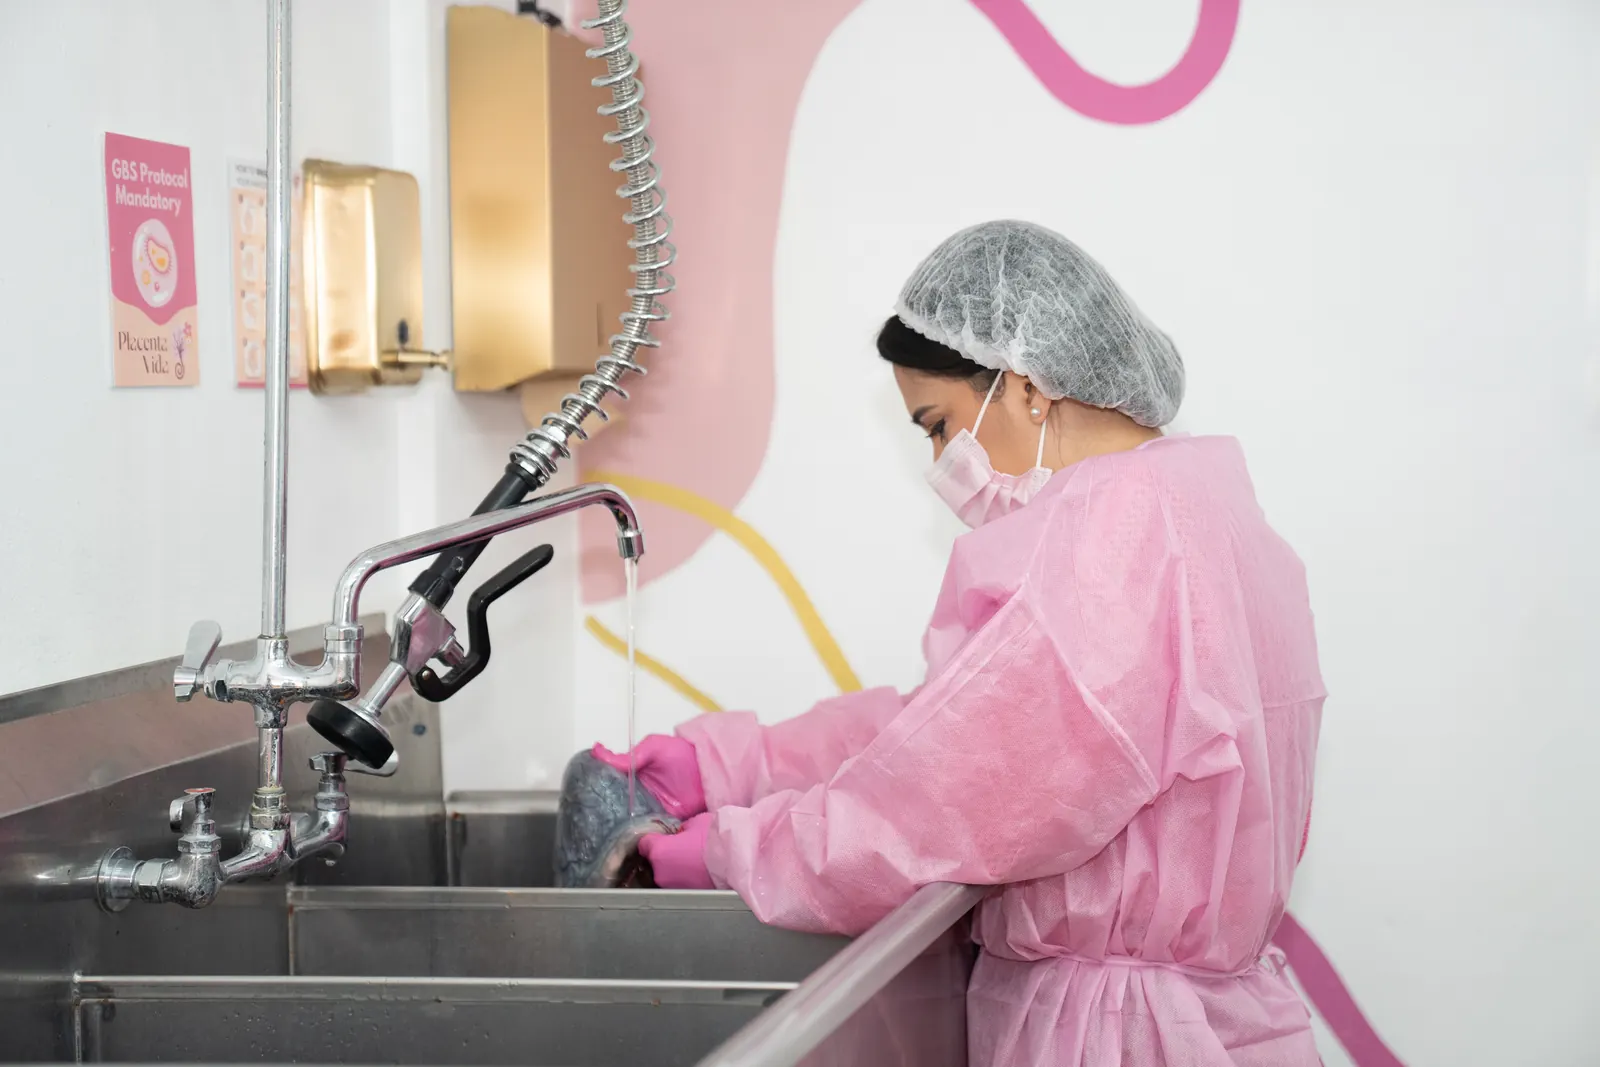
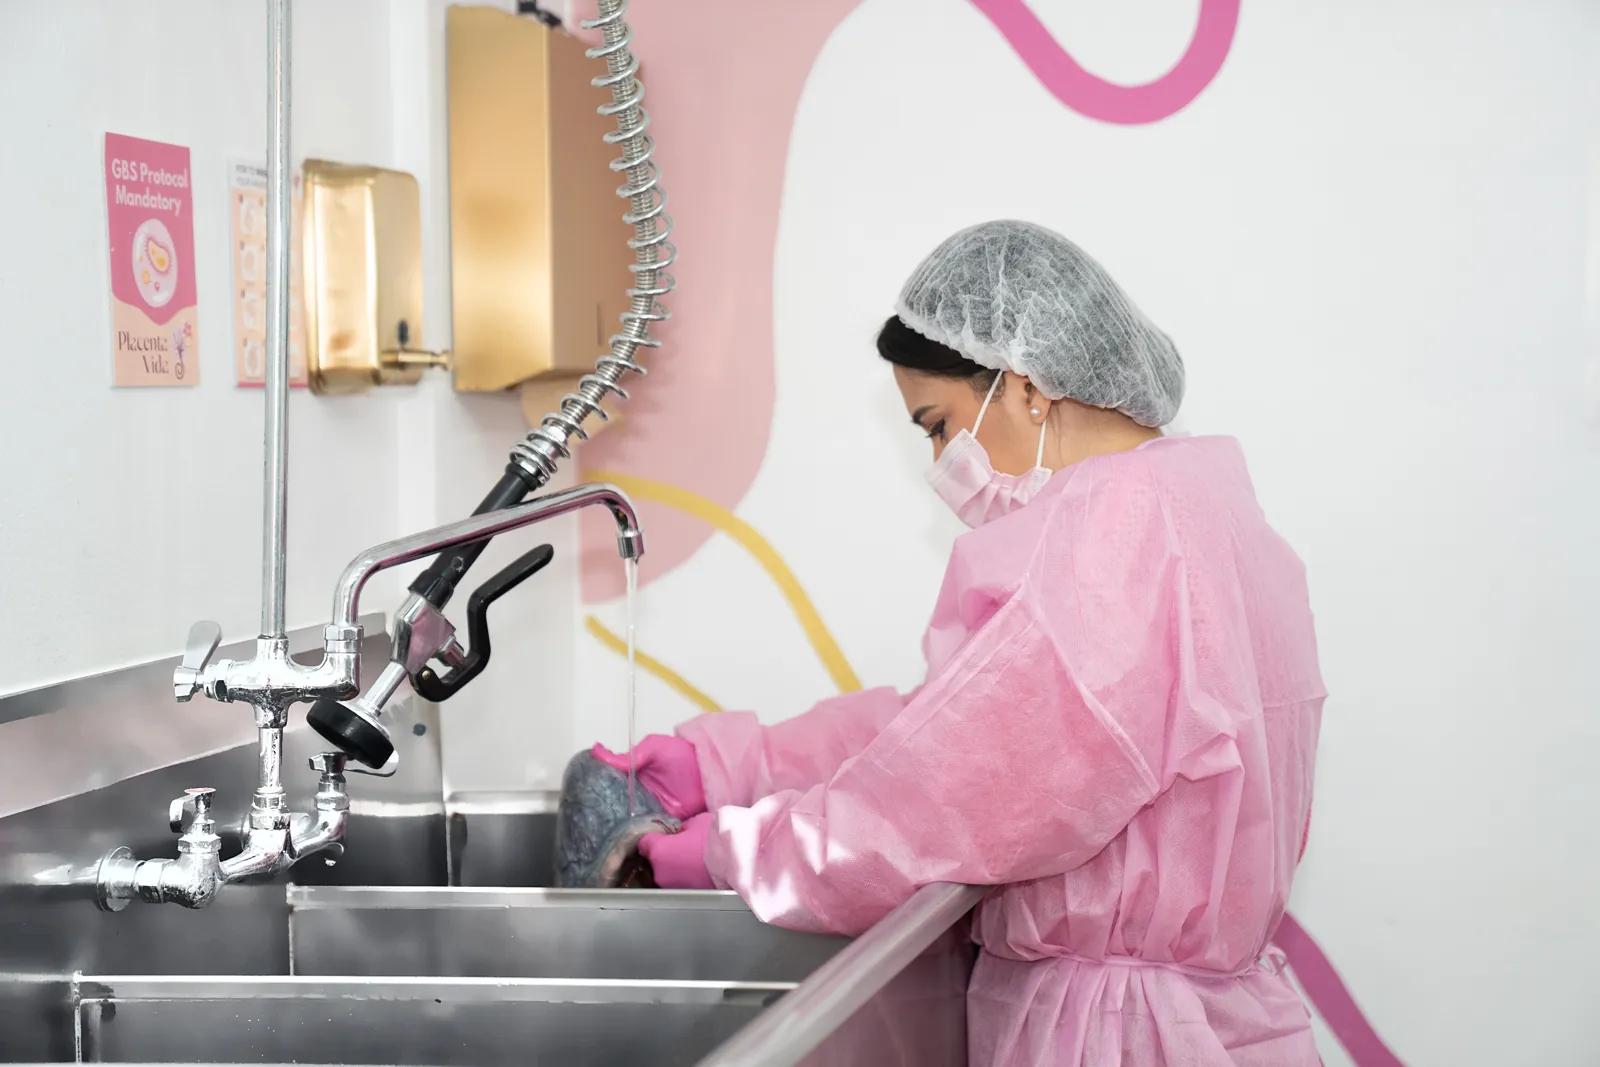
Cambiar foto del paso 3 y limpiar el fregadero en la foto de higiene
Claude-Session: https://claude.ai/code/session_011WUTE6QABAWncAaueNAr5V

Changed region(s): [[0.0, 0.5876, 0.5312, 1.0]]

diff --git a/pills/index.html b/pills/index.html
@@ -343,7 +343,7 @@ footer .legal{border-top:1px solid rgba(255,255,255,.12);margin-top:44px;padding
     <div class="pasos">
       <div class="paso rv"><div class="img"><img src="../img/liz-corazon.webp" alt="Liz haciendo un corazón con las manos"></div><div class="txt"><span class="num">01</span><h3>Separas tu espacio</h3><p>Envías tu depósito de $50 y te damos las instrucciones para tu hospital o parto en casa.</p></div></div>
       <div class="paso rv"><div class="img"><img src="../img/higiene.webp" alt="Higiene y bioseguridad" style="object-position:70% center"></div><div class="txt"><span class="num">02</span><h3>Recogemos tu placenta</h3><p>Servicio 24/7 en toda la isla, con transporte especializado y contenedor adecuado.</p></div></div>
-      <div class="paso rv"><div class="img"><img src="../img/proceso.webp" alt="Procesamiento de la placenta con equipo de protección"></div><div class="txt"><span class="num">03</span><h3>La preparamos</h3><p>Personal certificado en manejo, preparación y transporte de placenta, conforme a regulaciones de salud.</p></div></div>
+      <div class="paso rv"><div class="img"><img src="../img/cordon-arte.webp" alt="Preparación del arte del cordón con equipo de protección"></div><div class="txt"><span class="num">03</span><h3>La preparamos</h3><p>Personal certificado en manejo, preparación y transporte de placenta, conforme a regulaciones de salud.</p></div></div>
       <div class="paso rv"><div class="img"><img src="../img/bandeja-productos.webp" alt="Bandeja dorada con productos de placenta"></div><div class="txt"><span class="num">04</span><h3>Recibes tu orden</h3><p>Tus cápsulas y productos listos en 3 a 5 días. El balance se paga al confirmar tu orden.</p></div></div>
     </div>
   </div>
@@ -461,7 +461,7 @@ footer .legal{border-top:1px solid rgba(255,255,255,.12);margin-top:44px;padding
   <div class="wrap">
     <div class="fotos rv">
       <img class="a" src="../img/liz-logo.webp" alt="Lizbeth Palacios en las facilidades de Placenta Vida">
-      <img class="b" src="../img/proceso.webp" alt="Liz preparando una placenta">
+      <img class="b" src="../img/liz-capsula.webp" alt="Liz mostrando una cápsula de placenta">
     </div>
     <div class="rv">
       <span class="kicker">¿Quién dirige?</span>
